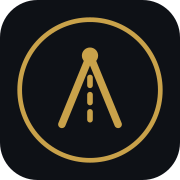
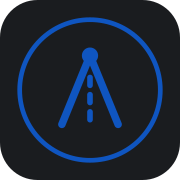
Reference-led brand refresh: warm paper + charcoal + corporate blue palette, photo-led hero and editorial photo bands, six generated Hyderabad photos, responsive WebP pipeline

Changed region(s): [[0.0833, 0.0833, 0.9167, 0.9167], [0.3056, 0.25, 0.6944, 0.7222]]

diff --git a/src/styles/global.css b/src/styles/global.css
@@ -6,23 +6,23 @@
 
 /* Brand system — ink, warm paper, restrained gold. Serif display for headlines, grotesk for UI, Inter for body. */
 @theme {
-  --color-ink: #0E1116;
-  --color-ink-800: #171B22;
-  --color-ink-700: #22272F;
-  --color-ink-600: #343A44;
-  --color-paper: #FBFAF7;
-  --color-mist: #F3F1EB;
-  --color-mist-200: #E6E2D8;
-  --color-mist-300: #CFC9BA;
-  --color-slate: #555B66;      /* body-muted on paper (≥ 6:1) */
-  --color-slate-400: #9AA0AB;  /* muted on ink */
-  --color-brand: #C9A24A;      /* gold — rules, marks, CTAs on dark */
-  --color-brand-600: #B38E3B;
-  --color-brand-300: #E7D39A;  /* gold text on ink */
-  --color-brand-ink: #1A1403;  /* text on gold */
-  --color-accent: #8A6A1E;     /* gold-700: link/text-safe on paper (≥ 5:1) */
-  --color-accent-700: #8A6A1E;
-  --color-accent-200: #EFE4C4;
+  --color-ink: #1A1C1F;
+  --color-ink-800: #24272B;
+  --color-ink-700: #2F3338;
+  --color-ink-600: #42474E;
+  --color-paper: #FAF8F3;
+  --color-mist: #F1EEE7;
+  --color-mist-200: #E4E0D7;
+  --color-mist-300: #CBC5B9;
+  --color-slate: #5B5F66;      /* body-muted on paper (≥ 6:1) */
+  --color-slate-400: #A3A7AE;  /* muted on ink */
+  --color-brand: #0F55C0;      /* corporate blue — CTAs, links, marks */
+  --color-brand-600: #0C45A0;
+  --color-brand-300: #9CBCF2;  /* blue text on ink */
+  --color-brand-ink: #FFFFFF;  /* text on blue */
+  --color-accent: #0F55C0;     /* link colour on paper (≥ 5:1) */
+  --color-accent-700: #0C45A0;
+  --color-accent-200: #DCE7FA;
   --color-success: #2E7D5B;
   --color-success-700: #22624A;
   --color-danger: #B42318;
@@ -46,7 +46,7 @@
   img { height: auto; }
   body.lock { overflow: hidden; }
   [id] { scroll-margin-top: 92px; }
-  ::selection { background: var(--color-brand-300); color: var(--color-ink); }
+  ::selection { background: var(--color-accent-200); color: var(--color-ink); }
   em { font-style: italic; }
 }
 
@@ -68,8 +68,8 @@
 
   .btn { @apply inline-flex min-h-12 items-center justify-center gap-2 rounded-full px-6 py-3 font-ui text-[14px] font-semibold tracking-[.01em] transition-[background-color,color,border-color,transform] duration-200 cursor-pointer select-none; }
   .btn:active { transform: translateY(1px); }
-  .btn-brand { @apply bg-ink text-paper hover:bg-ink-700; }
-  .dark .btn-brand { @apply bg-brand text-brand-ink hover:bg-brand-300; }
+  .btn-brand { @apply bg-brand text-white hover:bg-brand-600; }
+  .dark .btn-brand { @apply bg-paper text-ink hover:bg-white; }
   .btn-outline { @apply border border-ink/25 text-ink hover:border-ink hover:bg-ink hover:text-paper; }
   .dark .btn-outline { @apply border-white/30 text-paper hover:bg-paper hover:text-ink hover:border-paper; }
   .btn-ghost { @apply px-0 text-ink underline decoration-brand decoration-1 underline-offset-[6px] hover:decoration-2; }
@@ -85,7 +85,7 @@
   .icon-tile { @apply inline-flex size-10 items-center justify-center rounded-full border border-ink/15 text-ink; }
   .dark .icon-tile { @apply border-white/20 text-brand-300; }
   .chip { @apply inline-flex items-center gap-1.5 rounded-full border border-ink/15 bg-transparent px-3 py-1.5 font-ui text-[13px] font-medium text-ink transition-colors hover:border-ink; }
-  .tick { @apply inline-flex size-5 shrink-0 items-center justify-center rounded-full border border-brand/60 text-accent-700; }
+  .tick { @apply inline-flex size-5 shrink-0 items-center justify-center rounded-full border border-brand/50 text-accent-700; }
   .dark .tick { @apply text-brand-300; }
   .field { @apply w-full rounded-md border border-ink/20 bg-paper px-3.5 py-3 text-base text-ink outline-none transition-colors placeholder:text-slate-400 focus:border-ink; }
   .field-label { @apply mb-1.5 block font-ui text-[13px] font-semibold text-ink; }
@@ -138,7 +138,7 @@
   .faq-plus { transition: transform .25s ease; }
 
   /* Placeholder highlight */
-  .ph { @apply rounded-sm bg-brand px-1 font-mono text-[.85em] text-brand-ink; }
+  .ph { @apply rounded-sm bg-[#F2D479] px-1 font-mono text-[.85em] text-[#3A2E05]; }
 }
 
 @utility text-balance { text-wrap: balance; }

diff --git a/src/data/images.ts b/src/data/images.ts
@@ -1,0 +1,32 @@
+// Photo registry. Files live in public/images (generated by scripts/optimise-images.mjs from src/assets/photos).
+export const photos = {
+  hero: { src: '/images/hero-hitec-city-dawn.webp', alt: 'Employees boarding a corporate cab outside an IT office tower in HITEC City, Hyderabad, at dawn' },
+  nightDrop: { src: '/images/night-drop-colony.webp', alt: 'A woman employee stepping out of a corporate cab at her apartment gate at night, driver waiting with hazard lights on' },
+  shuttle: { src: '/images/metro-shuttle-boarding.webp', alt: 'Office employees boarding a tempo traveller shuttle outside a Hyderabad metro station in the morning' },
+  commandDesk: { src: '/images/command-desk.webp', alt: 'Transport command desk operators monitoring live trips on wall screens at night' },
+  fleet: { src: '/images/fleet-depot-dawn.webp', alt: 'Corporate cab fleet of sedans, SUVs, an Innova and a tempo traveller lined up in a depot at dawn' },
+  plantShift: { src: '/images/plant-shift-bus.webp', alt: 'Factory workers stepping off a staff bus at an industrial plant gate at dawn' },
+};
+export type PhotoKey = keyof typeof photos;
+/** Which photo a service / solution page shows after its process section. */
+export const servicePhoto: Record<string, PhotoKey> = {
+  'employee-transportation-hyderabad': 'hero',
+  'office-pickup-and-drop-hyderabad': 'hero',
+  'monthly-cab-for-office-hyderabad': 'fleet',
+  'corporate-car-rental-hyderabad': 'fleet',
+  'corporate-taxi-hyderabad': 'fleet',
+  'corporate-cab-vendor-hyderabad': 'commandDesk',
+  'night-shift-cab-hyderabad': 'nightDrop',
+  'airport-transfers-hyderabad': 'hero',
+  'employee-shuttle-bus-hyderabad': 'shuttle',
+  'corporate-event-transport-hyderabad': 'shuttle',
+  'executive-chauffeur-hyderabad': 'hero',
+  'outstation-corporate-travel-hyderabad': 'fleet',
+  'hourly-cab-rental-hyderabad': 'fleet',
+  'electric-cab-employee-transport-hyderabad': 'fleet',
+  'transport-management-solution': 'commandDesk',
+  'corporate-vehicle-leasing-hyderabad': 'fleet',
+  'women-safety-employee-transport-hyderabad': 'nightDrop',
+  'employee-transport-cost-optimization': 'commandDesk',
+  'factory-shift-employee-transport-hyderabad': 'plantShift',
+};
